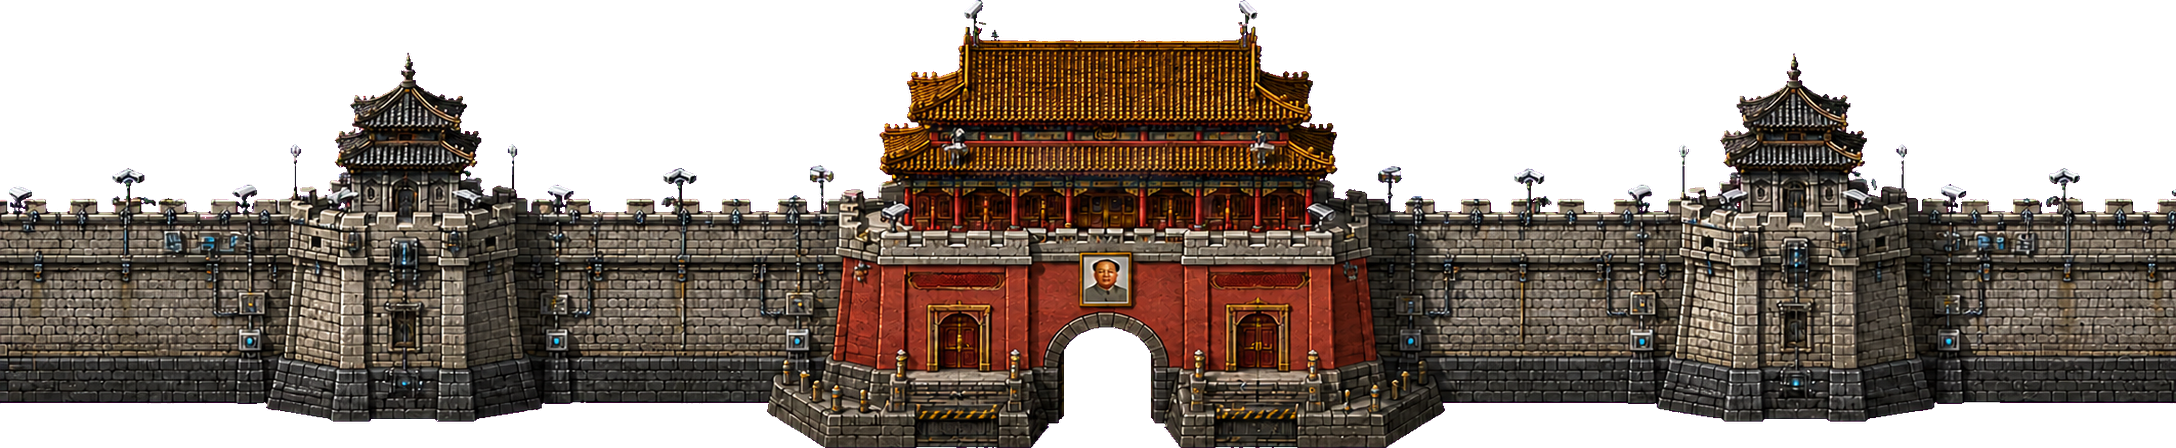
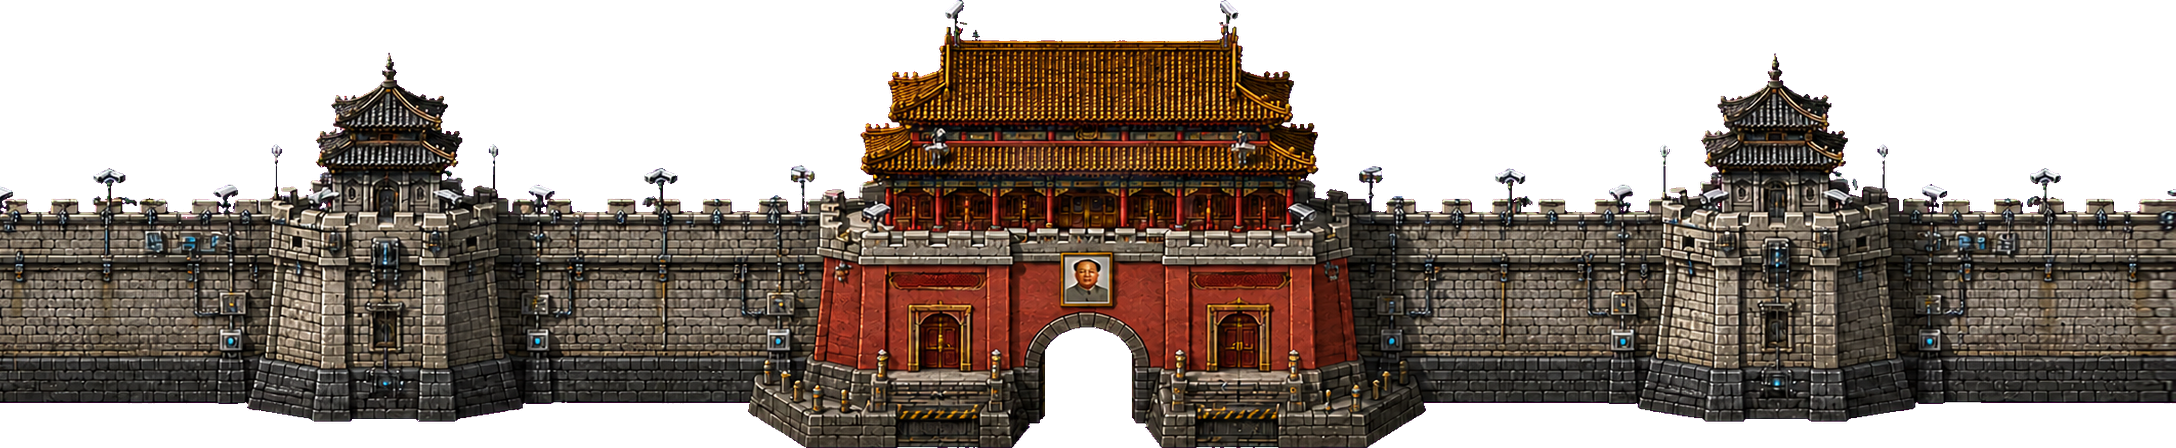
Align Xi's wall to the map edge

diff --git a/scripts/normalize_northern_wall.py b/scripts/normalize_northern_wall.py
@@ -10,6 +10,7 @@ from PIL import Image
 
 
 CANVAS_SIZE = (2176, 448)
+GATE_ALIGNMENT_SHIFT = 19
 
 
 def _remove_magenta_matte(image: Image.Image) -> Image.Image:
@@ -43,6 +44,20 @@ def normalize(source: Path, destination: Path) -> None:
         CANVAS_SIZE,
         Image.Resampling.LANCZOS,
     ).convert("RGBA")
+    # The generated arch sits 19 px to the right of the district plate's true
+    # boulevard axis. Shift the composition left while stretching only a thin
+    # slice at the far-right wall wing so the perimeter still reaches both map
+    # edges without introducing a transparent seam.
+    width, height = CANVAS_SIZE
+    aligned = Image.new("RGBA", CANVAS_SIZE, (0, 0, 0, 0))
+    aligned.paste(subject.crop((GATE_ALIGNMENT_SHIFT, 0, width, height)), (0, 0))
+    tail = subject.crop((width - GATE_ALIGNMENT_SHIFT, 0, width, height))
+    tail = tail.convert("RGBa").resize(
+        (GATE_ALIGNMENT_SHIFT * 2, height),
+        Image.Resampling.LANCZOS,
+    ).convert("RGBA")
+    aligned.paste(tail, (width - GATE_ALIGNMENT_SHIFT * 2, 0))
+    subject = aligned
     subject = _remove_magenta_matte(subject)
     subject.putdata([
         (0, 0, 0, 0) if alpha <= 4 else (red, green, blue, alpha)

diff --git a/docs/ARCHITECTURE.md b/docs/ARCHITECTURE.md
@@ -80,7 +80,7 @@ scenes/main.tscn
 - `assets/` and `shaders/` remain presentation resources rather than behavior owners.
 - `assets/landmarks/authority_*_v2.png` contains the six runtime-sized satirical authority facades. Their architecture is narrative: spectacle masks neglect for Trump, permanent-beta industry for Musk, inaccessible transparency for Ursula, wartime paranoia for Putin, stratified stability for Lagarde, and theatrical grandeur for Macron. `AuthorityWorldPatchBuilder` aligns each transparent lower edge to the doorway and owns its visible-mass collision rows, soft ground contact, and optional physical motif. See [World Patch Visual System](WORLD_PATCH_VISUAL_SYSTEM.md).
 - `assets/backgrounds/world_district_plate_v3.png` is a single opaque, collision-neutral HD ground plate matching the 2176×2048 overworld bounds. `main.gd` mounts it below the TileMap at `z=-10` with linear filtering; path reservations, structures, triggers, and collision remain generated runtime layers. The plate supplies broad contemporary civic materials and authored landscaping without the repeated 32 px visual grammar of the fallback atlas. Legacy nature and border tiles are suppressed while the plate is active, but the invisible world-edge collision remains. If the plate cannot load, the generator still falls back to the original ground, path, decoration, and border rendering.
-- `assets/landmarks/northern_great_wall_v1.png` replaces Xi's isolated isometric cutout with a 2176×448 transparent northern perimeter. `WorldLandmarkBuilder` anchors it at the north-west world bound, keeps one open central gate aligned to the boulevard, adds two solid wall wings, and retains the former wall asset only as a missing-resource fallback. The hidden bunker now occupies the western margin between rows so it cannot interrupt the northern silhouette. See [Northern Great Wall Art Direction](NORTHERN_GREAT_WALL_ART_DIRECTION.md).
+- `assets/landmarks/northern_great_wall_v1.png` replaces Xi's isolated isometric cutout with a 2176×448 transparent northern perimeter. `WorldLandmarkBuilder` anchors its visible frontage to the north world boundary while the wall mass remains outside the playable map, keeps one open central gate aligned to the boulevard, adds two solid wall wings, and retains the former wall asset only as a missing-resource fallback. The hidden bunker now occupies the western margin between rows so it cannot interrupt the northern silhouette. See [Northern Great Wall Art Direction](NORTHERN_GREAT_WALL_ART_DIRECTION.md).
 - The six main compounds follow the authored plate's two-column/three-row visual grid. Their complete patches now land at world coordinates `x = ±528` and `y = -683 / 0 / 683`, moving image, doorway, collision, NPC, and lighting inward together. The 16 px difference from the ideal quarter-width axis is the smallest symmetric tile-centred placement possible. Facades use shared row heights (330 px top, 320 px middle, 298 px bottom), so paired landmarks align predictably with their doorway rows.
 - All six authorities use facade-specific collision masks rather than legacy procedural silhouettes. Each mask follows the visible lower building mass and stops before the exterior threshold; the doorway trigger remains owned by `RoomManager`.
 

diff --git a/docs/WORLD_PATCH_VISUAL_SYSTEM.md b/docs/WORLD_PATCH_VISUAL_SYSTEM.md
@@ -60,7 +60,7 @@ Trump, Musk, Ursula, Lagarde, and Macron currently rely on facade, contact, and 
 
 `scripts/managers/authority_world_patch_builder.gd` owns patch profiles, collision rows, facade composition, ground contact, and optional physical motifs. `main.gd` supplies each existing building specification, registers returned collision cells, and continues to coordinate rooms, NPCs, paths, and story systems.
 
-`WorldLandmarkBuilder` remains responsible for optional static landmarks such as the Great Wall, bunker, nuclear plant, and Pyongyang. Xi's wall is the border-scale exception: its transparent raster begins at the north-west world bound, spans the complete map width, owns two physical wall-wing colliders, and exposes one central doorway. Bezos currently enters the overworld as a drone encounter, not a stable landmark; a future Fulfillment Cathedral requires its own world-location decision before it can receive a patch.
+`WorldLandmarkBuilder` remains responsible for optional static landmarks such as the Great Wall, bunker, nuclear plant, and Pyongyang. Xi's wall is the border-scale exception: its visible front line meets the north world bound while the wall mass remains outside the playable terrain, spans the complete map width, owns two physical wall-wing colliders, and exposes one central doorway. Bezos currently enters the overworld as a drone encounter, not a stable landmark; a future Fulfillment Cathedral requires its own world-location decision before it can receive a patch.
 
 ## Adding a patch
 

diff --git a/docs/NORTHERN_GREAT_WALL_ART_DIRECTION.md b/docs/NORTHERN_GREAT_WALL_ART_DIRECTION.md
@@ -10,10 +10,10 @@ The central Tiananmen-inspired gate communicates the encounter before dialogue. 
 
 - Asset: `assets/landmarks/northern_great_wall_v1.png`.
 - Canvas: 2176×448 transparent RGBA, exactly the overworld width.
-- Placement: top-left anchored at world `(-1088, -1024)` with linear filtering.
+- Placement: the raster origin is `(-1088, -1427)` so its visible front line lands exactly on the playable north boundary at `y = -1024`; the wall mass remains outside the map.
 - Layering: the wall remains behind the two northern authority facades; the central gate occupies the open boulevard between them.
-- Gate: one traversable opening at world `x = 16`, with its `red_command` trigger centered at `y = -604`.
-- Return point: exiting Xi places the player at `(16, -544)`, south of the trigger, preventing an immediate re-entry loop.
+- Gate: one traversable opening on the boulevard's exact visual axis at world `x = 0`, with its `red_command` trigger centered at `y = -976`. The normalization pass shifts the generated arch 19 px left to match that axis.
+- Return point: exiting Xi places the player at `(16, -896)`, south of the trigger, preventing an immediate re-entry loop.
 - Collision: two shallow solid wings follow the visible wall front while a 128 px central channel remains open.
 - Fallback: the former `landmark_great_wall.png` cutout is created only if the full-width asset is unavailable.
 
